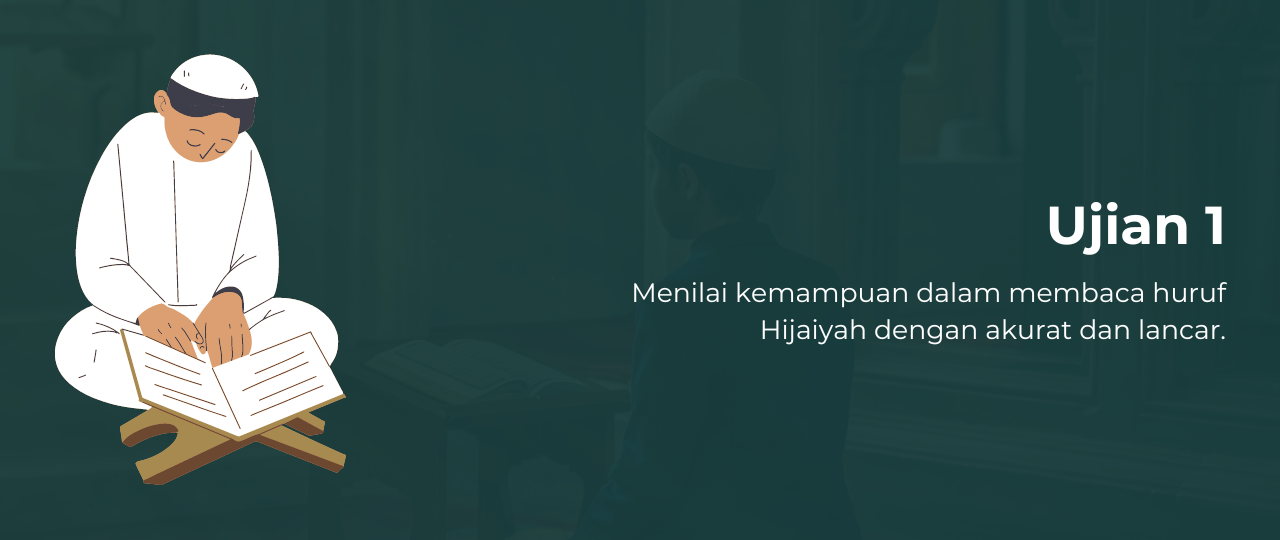
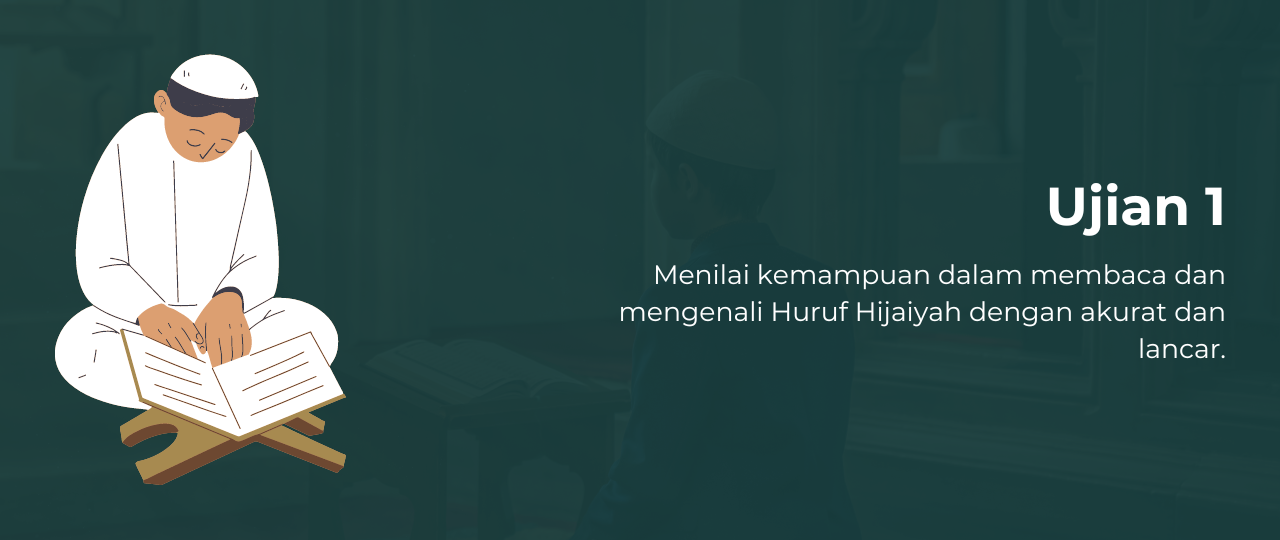
fix: change the question & answer for exam 1, and delete the searching page

Changed region(s): [[0.4688, 0.3259, 0.9688, 0.6815]]

diff --git a/lib/app/modules/allSurah/views/all_surah_view.dart b/lib/app/modules/allSurah/views/all_surah_view.dart
@@ -113,55 +113,56 @@ class AllSurahView extends GetView<AllSurahController> {
                           ),
                         ),
                       ),
-                      const SizedBox(
-                        height: 20,
-                      ),
+                      // const SizedBox(
+                      //   height: 20,
+                      // ),
 
                       // section - search surah
-                      Padding(
-                          padding: const EdgeInsets.symmetric(
-                            horizontal: 20,
-                          ),
-                          child: Row(
-                            crossAxisAlignment: CrossAxisAlignment.start,
-                            children: [
-                              Expanded(
-                                child: InkWell(
-                                  onTap: () {},
-                                  child: Container(
-                                    decoration: BoxDecoration(
-                                      borderRadius: BorderRadius.circular(10),
-                                      border: Border.all(
-                                        color: wintergreenDream,
-                                        width: 2,
-                                      ),
-                                    ),
-                                    child: const Padding(
-                                      padding: EdgeInsets.symmetric(
-                                        horizontal: 20,
-                                        vertical: 10,
-                                      ),
-                                      child: Row(
-                                        children: [
-                                          Icon(
-                                            Icons.search,
-                                            color: wintergreenDream,
-                                          ),
-                                          SizedBox(
-                                            width: 10,
-                                          ),
-                                          Text(
-                                            "Cari Surah",
-                                            style: blackBold12,
-                                          ),
-                                        ],
-                                      ),
-                                    ),
-                                  ),
-                                ),
-                              ),
-                            ],
-                          )),
+                      // Padding(
+                      //   padding: const EdgeInsets.symmetric(
+                      //     horizontal: 20,
+                      //   ),
+                      //   child: Row(
+                      //     crossAxisAlignment: CrossAxisAlignment.start,
+                      //     children: [
+                      //       Expanded(
+                      //         child: InkWell(
+                      //           onTap: () {},
+                      //           child: Container(
+                      //             decoration: BoxDecoration(
+                      //               borderRadius: BorderRadius.circular(10),
+                      //               border: Border.all(
+                      //                 color: wintergreenDream,
+                      //                 width: 2,
+                      //               ),
+                      //             ),
+                      //             child: const Padding(
+                      //               padding: EdgeInsets.symmetric(
+                      //                 horizontal: 20,
+                      //                 vertical: 10,
+                      //               ),
+                      //               child: Row(
+                      //                 children: [
+                      //                   Icon(
+                      //                     Icons.search,
+                      //                     color: wintergreenDream,
+                      //                   ),
+                      //                   SizedBox(
+                      //                     width: 10,
+                      //                   ),
+                      //                   Text(
+                      //                     "Cari Surah",
+                      //                     style: blackBold12,
+                      //                   ),
+                      //                 ],
+                      //               ),
+                      //             ),
+                      //           ),
+                      //         ),
+                      //       ),
+                      //     ],
+                      //   ),
+                      // ),
 
                       // section - bookmark
                       // ignore: unrelated_type_equality_checks

diff --git a/lib/app/modules/exam/views/exam_view.dart b/lib/app/modules/exam/views/exam_view.dart
@@ -381,7 +381,7 @@ class ExamView extends GetView<ExamController> {
                                         height: 20,
                                       ),
 
-                                      // section - Back Button
+                                      // section - back button
                                       InkWell(
                                         onTap: () {
                                           Get.back();
@@ -474,7 +474,7 @@ class ExamView extends GetView<ExamController> {
                                         height: 20,
                                       ),
 
-                                      // section - Back Button
+                                      // section - back button
                                       InkWell(
                                         onTap: () {
                                           Get.back();

diff --git a/lib/app/data/models/exam_data.dart b/lib/app/data/models/exam_data.dart
@@ -33,22 +33,22 @@ class Level {
 List<Exam> examContents = [
   Exam(
     id: 1,
-    title: "Huruf Hijaiyah",
+    title: "Mengenal Huruf Hijaiyah",
     description:
-        "Menilai kemampuan dalam membaca huruf Hijaiyah dengan akurat dan lancar.",
+        "Menilai kemampuan dalam membaca dan mengenali huruf Hijaiyah dengan akurat dan lancar.",
     image: "assets/images/ujianQuran1.png",
     totalExam: 3,
     levels: [
       Level(
         tingkatan: "Pemula",
-        soal: "ا ب ت ث",
-        jawaban: "ا ب ت ث",
+        soal: "ا ب",
+        jawaban: "ا ب",
         progress: 0,
       ),
       Level(
         tingkatan: "Menengah",
-        soal: "ا ب ت ث",
-        jawaban: "ا ب ت ث",
+        soal: "ا ب ت",
+        jawaban: "ا ب ت",
         progress: 0,
       ),
       Level(

diff --git a/lib/app/modules/reward/views/reward_view.dart b/lib/app/modules/reward/views/reward_view.dart
@@ -66,7 +66,7 @@ class RewardView extends GetView<RewardController> {
               height: 20,
             ),
 
-            // section - Back Button
+            // section - back button
             InkWell(
               onTap: () {
                 Get.back();
@@ -150,7 +150,7 @@ class RewardView extends GetView<RewardController> {
               height: 20,
             ),
 
-            // section - Back Button
+            // section - back button
             InkWell(
               onTap: () {
                 Get.back();

diff --git a/lib/app/modules/levelExam/views/level_exam_view.dart b/lib/app/modules/levelExam/views/level_exam_view.dart
@@ -142,7 +142,7 @@ class LevelExamView extends GetView<LevelExamController> {
                                         style: blackW30012,
                                         children: [
                                           TextSpan(
-                                            text: "10000",
+                                            text: "250",
                                             style: blackBold12,
                                           )
                                         ],
